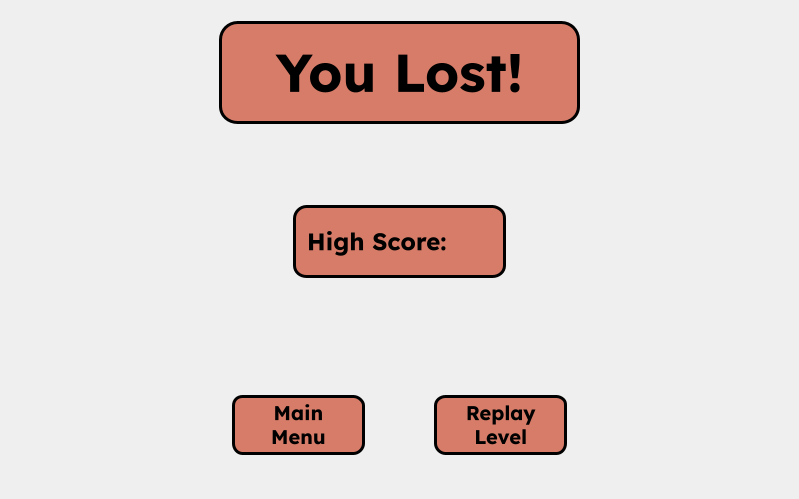
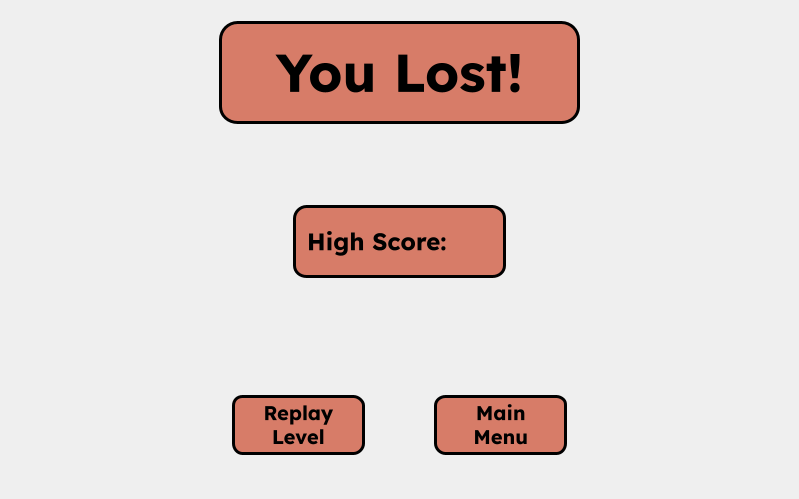
Added better looking winning / losing stuff

Changed region(s): [[0.3304, 0.8116, 0.4205, 0.9018], [0.5707, 0.8116, 0.6909, 0.9018]]

diff --git a/main.py b/main.py
@@ -10,6 +10,7 @@
 
 # START - IMPORTS
 import pygame
+import time
 import webbrowser
 from game_logic import QuantumGame
 from game_logic import SUPPORTED_GATES
@@ -187,10 +188,20 @@ def displayYouWonScreen(level, moveCount):  # Displays the screen that plays whe
     displayYouWonScoreInfo(level, moveCount)
     pygame.display.update()
 
+def displayWinBorder():  # Displays a green border surrounding the qubit display
+    winBorder = pygame.image.load('Assets/WinLoseAssets/WinBorder.png').convert_alpha()
+    screen.blit(winBorder, origin)
+    pygame.display.update()
+
 def displayYouLostScreen(level):  # Diplays the screen that plays when the player loses a level
     youLostScreen = pygame.image.load('Assets/WinLoseAssets/YouLostScreen.png').convert_alpha()
     screen.blit(youLostScreen, origin)
     displayYouLostScoreInfo(level)  # Displays the user's high score (if any)
+    pygame.display.update()
+
+def displayLoseBorder():  # Displays a red border surrounding the qubit display
+    loseBorder = pygame.image.load("Assets/WinLoseAssets/LoseBorder.png").convert_alpha()
+    screen.blit(loseBorder, origin)
     pygame.display.update()
         # STOP - Gameplay Display Methods
 
@@ -218,7 +229,7 @@ def displayLevelGoal(level):  # Displays the screen that further explains the le
 
         # START - Scoreboard Menu Display Methods
 def displayScoreBoardMenuAreYouSure():
-    FileLocation = "Assets/Scoreboard AreYouSure Menu.png"
+    FileLocation = "Assets/ScoreBoardMenuAssets/Scoreboard AreYouSure Menu.png"
     areYouSureMenu = pygame.image.load(FileLocation).convert_alpha()
     screen.blit(areYouSureMenu, origin)
         # STOP - Scoreboard Menu Display Methods
@@ -812,30 +823,12 @@ def levelGoalExplanationBackButton(event):
                 return True
     # STOP - Level Goal Explanation Buttons
 
-    # START - You Won Screen Buttons
-def youWonScreenMainMenuButton(event):
-    x, y = pygame.mouse.get_pos()
-    if event.type == pygame.MOUSEBUTTONDOWN:
-        if (state == "youWonMenu"):
-            if (x > 232 and x < 366) and (y > 395 and y < 458):  # THE X IS ALREADY GOOD, WORRY ABOUT THE Y VALUES
-                print("You Won Screen Main Menu Button")
-                return True
-
-def youWonScreenNextLevelButton(event):
-    x, y = pygame.mouse.get_pos()
-    if event.type == pygame.MOUSEBUTTONDOWN:
-        if (state == "youWonMenu"):
-            if (x > 435 and x < 568) and (y > 395 and y < 458):  # THE X IS ALREADY GOOD, WORRY ABOUT THE Y VALUES
-                print("You Won Screen Next Level Button")
-                return True
-    # STOP - You Won Screen Buttons
-
-    # START - You Lost Screen Buttons
+    # START - You Lost/Won Screen Buttons
 def loseWinScreenMainMenuButton(event):
     x, y = pygame.mouse.get_pos()
     if event.type == pygame.MOUSEBUTTONDOWN:
         if (state == "youLostMenu" or state == "youWonMenu"):
-            if (x > 232 and x < 366) and (y > 395 and y < 458):  # THE X IS ALREADY GOOD, WORRY ABOUT THE Y VALUES
+            if (x > 232 and x < 366) and (y > 395 and y < 458):
                 print("You Lost Screen Main Menu Button")
                 return True
 
@@ -843,10 +836,10 @@ def loseWinLevelButton(event):
     x, y = pygame.mouse.get_pos()
     if event.type == pygame.MOUSEBUTTONDOWN:
         if (state == "youLostMenu" or state == "youWonMenu"):
-            if (x > 435 and x < 568) and (y > 395 and y < 458):  # THE X IS ALREADY GOOD, WORRY ABOUT THE Y VALUES
+            if (x > 435 and x < 568) and (y > 395 and y < 458):
                 print("You Lost Screen Replay Level Button")
                 return True
-    # START - You Lost Screen Buttons
+    # START - You Lost/Won Screen Buttons
 
     # START - IMAGE CONVERSION
 def bytes_to_pygame_image(bytes_io):
@@ -1608,12 +1601,12 @@ while running:  # GAME LOOP
 
             # You Lost Screen Button Control Flow
             if (state == "youLostMenu"):
-                if (loseWinScreenMainMenuButton(event)):  # Continue button is clicked
+                if (loseWinLevelButton(event)):  # Continue button is clicked
                     state = "mainMenu"  # State change
                     displayWhiteScreen()  # Blanks the screen
                     displayMainMenu()  # Main Menu
                     break
-                if (loseWinLevelButton(event)):  # Replay level button is clicked
+                if (loseWinScreenMainMenuButton(event)):  # Replay level button is clicked
                     state = "gamePlay"  # State change
                     displayWhiteScreen()  # Blanks the screen
                     if (level in hGateLevelList):  # If the level is an 'H' gate level, resets gates to the 'H' gate
@@ -1632,13 +1625,13 @@ while running:  # GAME LOOP
 
             # You Won Screen Button Control Flow
             if (state == "youWonMenu"):
-                if (loseWinScreenMainMenuButton(event)):  # Main menu button is clicked
+                if (loseWinLevelButton(event)):  # Main menu button is clicked
                     level -= 1 # Sets the level back
                     state = "mainMenu"  # State change
                     displayWhiteScreen()  # Blanks the screen
                     displayMainMenu()  # Main Menu
                     break
-                if (loseWinLevelButton(event)):  # Next level button is clicked
+                if (loseWinScreenMainMenuButton(event)):  # Next level button is clicked
                     displayWhiteScreen()  # Clears screen
                     moveCount = 0
                     if (level in hGateLevelList):  # If the level is an 'H' gate level, resets gates to the 'H' gate
@@ -1727,6 +1720,8 @@ while running:  # GAME LOOP
 
                 # WIN CONDITION CONTROL FLOW
                 if (winCheck(save_screen_as_image(screen), game.getWinConditions())):  # Checks if the level has been won
+                    displayWinBorder()  # Displays the win border
+                    time.sleep(3)  # Pauses for 3 second
                     updateScoreBoardTextFile(level,moveCount)  # Updates the high score of the player
                     displayYouWonScreen(level, moveCount)  # Displays the you won screen
                     displayYouWonScoreInfo(level, moveCount)  # Displays the you won screen score info
@@ -1740,64 +1735,94 @@ while running:  # GAME LOOP
                 if (level == "sandbox"):  # If the user is in sandbox mode reset moveCount to 0 to mitigate bugs
                     moveCount = 0
                 if (level == 1 and moveCount == moveCountCapList[level]):  # Checks if the move cap of 1 has been exceeded for level 1
+                    displayLoseBorder()  # Displays the lose border
+                    time.sleep(2)  # Waits for 3 seconds
                     displayYouLostScreen(level)
                     displayYouLostScoreInfo(level)
                     state = "youLostMenu"
                     moveCount = 0
                 if (level == 2 and moveCount == moveCountCapList[level]):  # Checks if the move cap of 2 has been exceeded for level 2
+                    displayLoseBorder()  # Displays the lose border
+                    time.sleep(2)  # Waits for 3 seconds
                     displayYouLostScreen(level)
                     displayYouLostScoreInfo(level)
                     state = "youLostMenu"
                     moveCount = 0
                 if (level == 3 and moveCount == moveCountCapList[level]):  # Checks if the move cap of 2 has been exceeded for level 2
+                    displayLoseBorder()  # Displays the lose border
+                    time.sleep(2)  # Waits for 3 seconds
                     displayYouLostScreen(level)
                     state = "youLostMenu"
                     moveCount = 0
                 if (level == 4 and moveCount == moveCountCapList[level]):  # Checks if the move cap of 2 has been exceeded for level 2
+                    displayLoseBorder()  # Displays the lose border
+                    time.sleep(2)  # Waits for 3 seconds
                     displayYouLostScreen(level)
                     state = "youLostMenu"
                     moveCount = 0
                 if (level == 5 and moveCount == moveCountCapList[level]):  # Checks if the move cap of 2 has been exceeded for level 2
+                    displayLoseBorder()  # Displays the lose border
+                    time.sleep(2)  # Waits for 3 seconds
                     displayYouLostScreen(level)
                     state = "youLostMenu"
                     moveCount = 0
                 if (level == 6 and moveCount == moveCountCapList[level]):  # Checks if the move cap of 1 has been exceeded for level 1
+                    displayLoseBorder()  # Displays the lose border
+                    time.sleep(2)  # Waits for 3 seconds
                     displayYouLostScreen(level)
                     state = "youLostMenu"
                     moveCount = 0
                 if (level == 7 and moveCount == moveCountCapList[level]):  # Checks if the move cap of 2 has been exceeded for level 2
+                    displayLoseBorder()  # Displays the lose border
+                    time.sleep(2)  # Waits for 3 seconds
                     displayYouLostScreen(level)
                     state = "youLostMenu"
                     moveCount = 0
                 if (level == 8 and moveCount == moveCountCapList[level]):  # Checks if the move cap of 2 has been exceeded for level 2
+                    displayLoseBorder()  # Displays the lose border
+                    time.sleep(2)  # Waits for 3 seconds
                     displayYouLostScreen(level)
                     state = "youLostMenu"
                     moveCount = 0
                 if (level == 9 and moveCount == moveCountCapList[level]):  # Checks if the move cap of 2 has been exceeded for level 2
+                    displayLoseBorder()  # Displays the lose border
+                    time.sleep(2)  # Waits for 3 seconds
                     displayYouLostScreen(level)
                     state = "youLostMenu"
                     moveCount = 0
                 if (level == 10 and moveCount == moveCountCapList[level]):  # Checks if the move cap of 2 has been exceeded for level 2
+                    displayLoseBorder()  # Displays the lose border
+                    time.sleep(2)  # Waits for 3 seconds
                     displayYouLostScreen(level)
                     state = "youLostMenu"
                     moveCount = 0
                 if (level == 11 and moveCount == moveCountCapList[level]):  # Checks if the move cap of 1 has been exceeded for level 1
+                    displayLoseBorder()  # Displays the lose border
+                    time.sleep(2)  # Waits for 3 seconds
                     displayYouLostScreen(level)
                     state = "youLostMenu"
                     moveCount = 0
                 if (level == 12 and moveCount == moveCountCapList[level]):  # Checks if the move cap of 2 has been exceeded for level 2
+                    displayLoseBorder()  # Displays the lose border
+                    time.sleep(2)  # Waits for 3 seconds
                     displayYouLostScreen(level)
                     state = "youLostMenu"
                     moveCount = 0
                 if (level == 13 and moveCount == moveCountCapList[level]):  # Checks if the move cap of 2 has been exceeded for level 2
+                    displayLoseBorder()  # Displays the lose border
+                    time.sleep(2)  # Waits for 3 seconds
                     displayYouLostScreen(level)
                     state = "youLostMenu"
                     moveCount = 0
                 if (level == 14 and moveCount == moveCountCapList[level]):  # Checks if the move cap of 2 has been exceeded for level 2
+                    displayLoseBorder()  # Displays the lose border
+                    time.sleep(2)  # Waits for 3 seconds
                     displayYouLostScreen(level)
                     state = "youLostMenu"
                     moveCount = 0
                 if (level == 15 and moveCount == moveCountCapList[level]):  # Checks if the move cap of 2 has been exceeded for level 2
+                    displayLoseBorder()  # Displays the lose border
+                    time.sleep(2)  # Waits for 3 seconds
                     displayYouLostScreen(level)
                     state = "youLostMenu"
                     moveCount = 0
